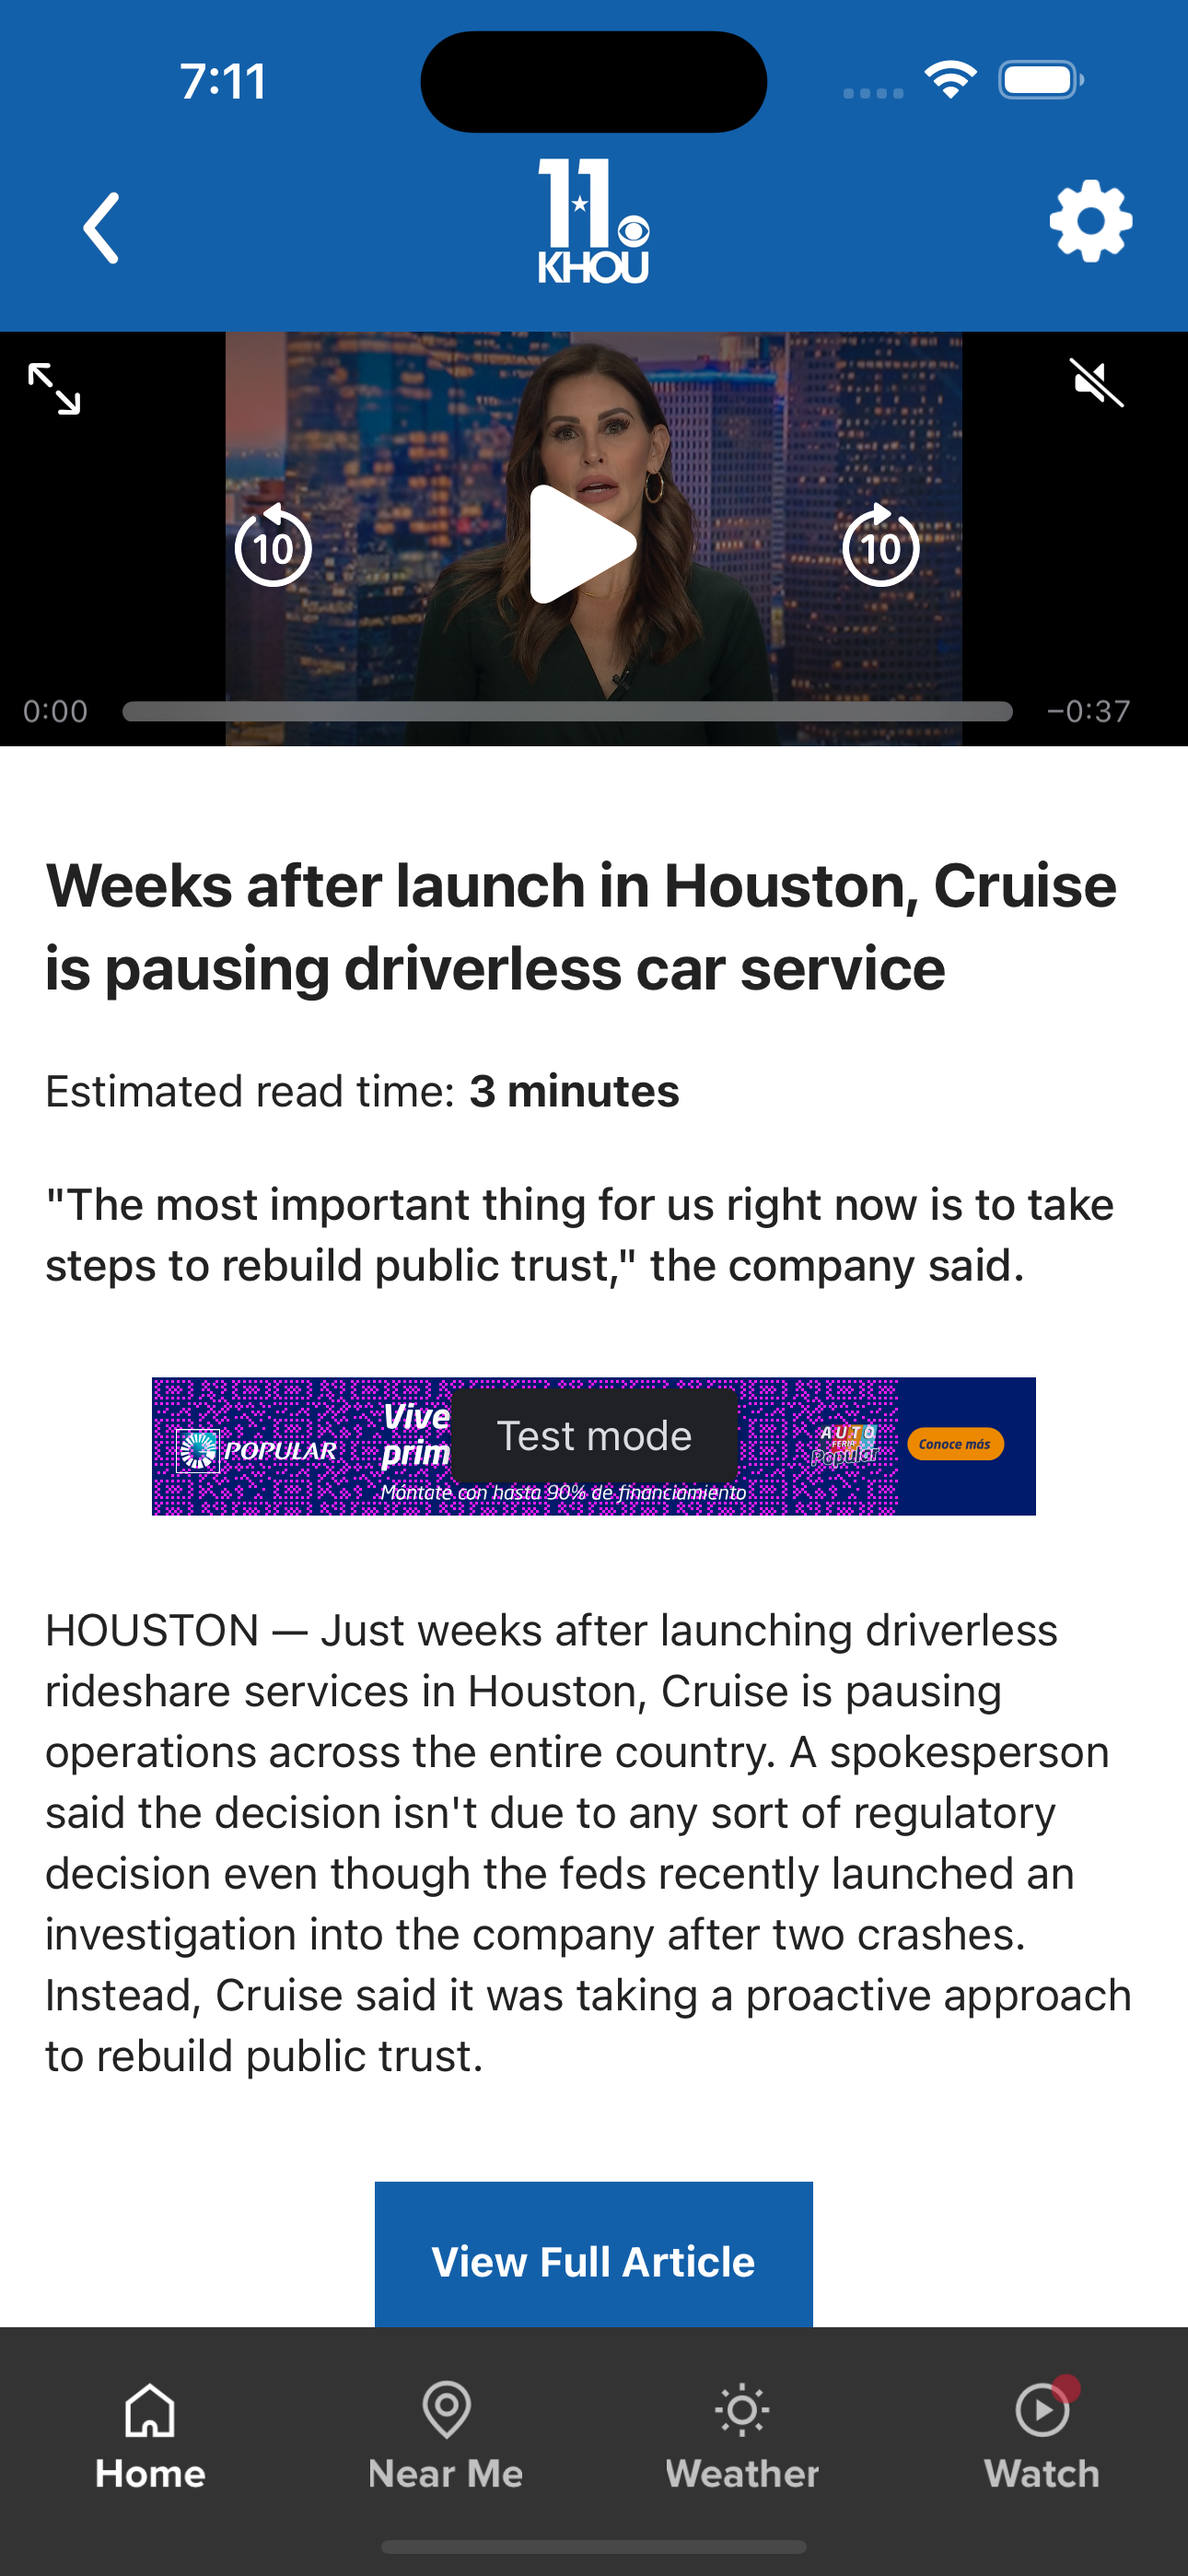
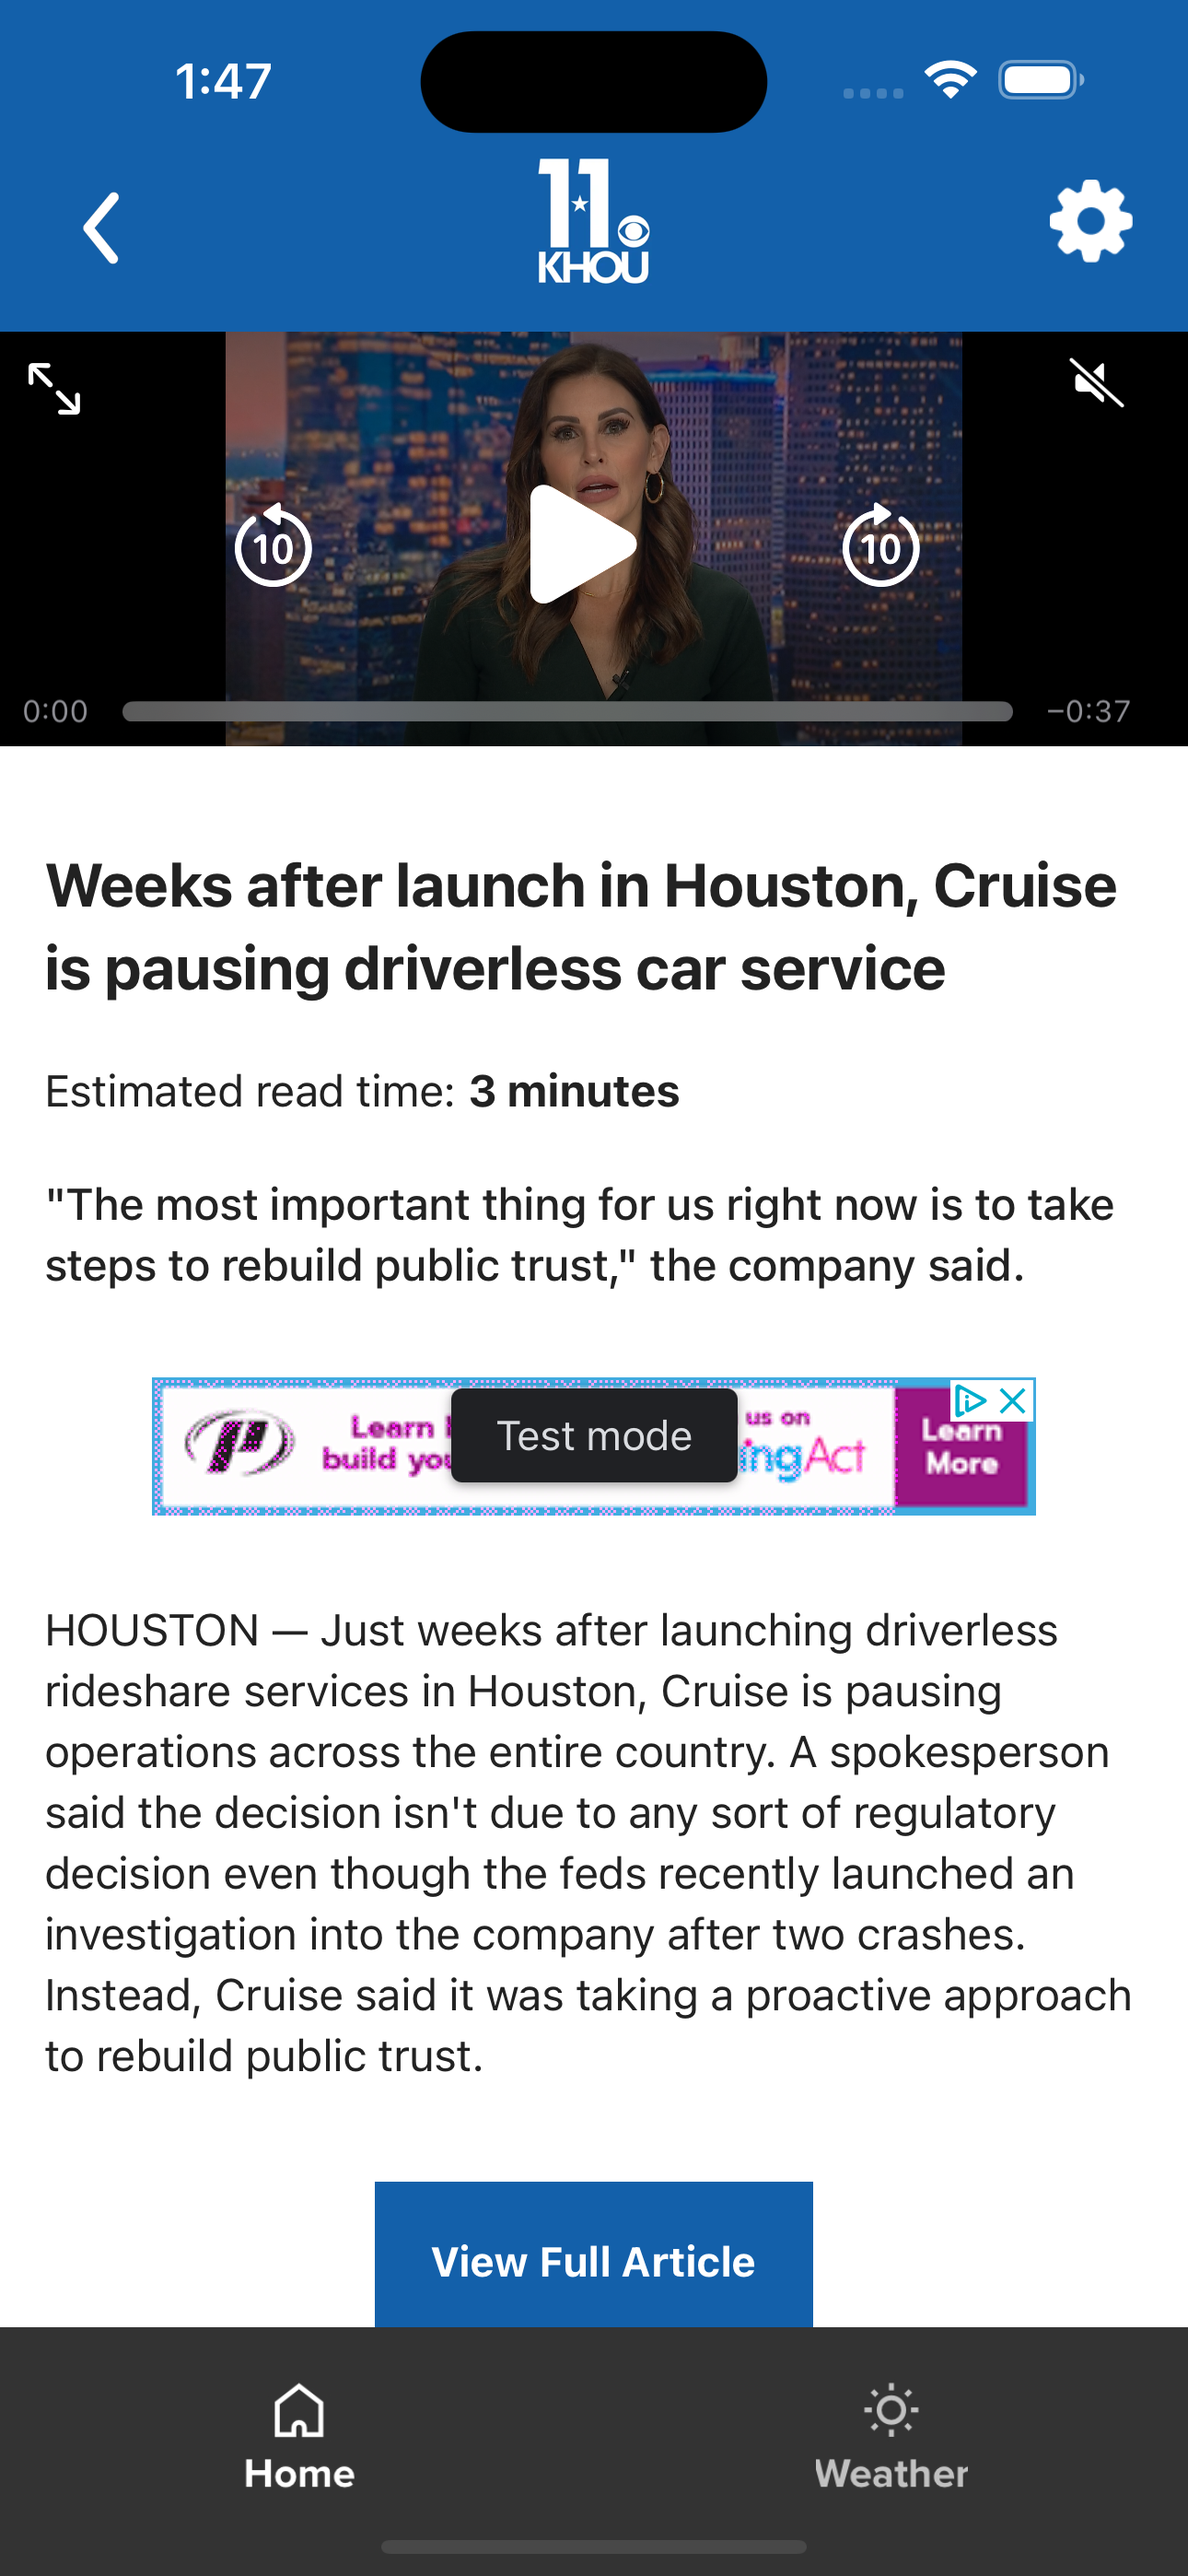
Weather updates

diff --git a/KHOU/components/WeatherItem.tsx b/KHOU/components/WeatherItem.tsx
@@ -1,0 +1,129 @@
+import React from 'react';
+import {View, Text, StyleSheet} from 'react-native';
+import CacheImage from './CacheImage';
+import {useSelector} from 'react-redux';
+// import {HOME_FEED_SCREEN} from './analytics/eventsConstants';
+// import {trackEvent} from './analytics/utils';
+
+function WeatherItem({weatherItem, storyIndex}: any) {
+  const theme = useSelector((state: RootStateOrAny) => state.prefs.theme);
+
+  console.log('weatherItem', weatherItem);
+
+  return (
+    <View key={weatherItem.id} style={styles.container}>
+      {
+        <View
+          style={[
+            styles.content,
+            {
+              backgroundColor: theme == 'light' ? 'white' : '#222',
+            },
+          ]}>
+          <View
+            style={{
+              display: 'flex',
+              marginRight: 15,
+              backgroundColor: 'orange',
+              padding: 10,
+              paddingLeft: 8,
+              width: 70,
+            }}>
+            <Text style={{fontSize: 18, fontWeight: 'bold', color: 'white'}}>
+              {weatherItem.day}
+            </Text>
+            <Text style={{fontSize: 18, fontWeight: 500, color: 'white'}}>
+              {weatherItem.date}
+            </Text>
+          </View>
+
+          <CacheImage
+            uri={weatherItem.condition}
+            style={styles.feedImg}
+            width={30}
+            height={30}
+          />
+          <Text
+            style={{
+              marginLeft: 10,
+              marginRight: 20,
+              fontSize: 22,
+              fontWeight: 'bold',
+              color: theme == 'dark' ? 'white' : '#222',
+            }}>
+            {weatherItem.high}/{weatherItem.low}
+          </Text>
+
+          <CacheImage
+            uri={weatherItem.condition}
+            style={styles.feedImg}
+            width={30}
+            height={30}
+          />
+          <Text
+            style={{
+              marginLeft: 5,
+              marginRight: 20,
+              fontSize: 16,
+              fontWeight: 'bold',
+              color: theme == 'dark' ? 'white' : '#222',
+            }}>
+            {weatherItem.precipitations}
+          </Text>
+          <CacheImage
+            uri={weatherItem.condition}
+            style={styles.feedImg}
+            width={30}
+            height={30}
+          />
+          <Text
+            style={{
+              marginLeft: 5,
+              fontSize: 16,
+              fontWeight: 'bold',
+              color: theme == 'dark' ? 'white' : '#222',
+            }}>
+            {weatherItem.windNumber}
+          </Text>
+          <Text
+            style={{
+              marginLeft: 5,
+              fontSize: 16,
+              fontWeight: 'bold',
+              color: theme == 'dark' ? 'white' : '#222',
+            }}>
+            {weatherItem.windDirection}
+          </Text>
+        </View>
+      }
+    </View>
+  );
+}
+
+const styles = StyleSheet.create({
+  container: {
+    width: '100%',
+    paddingLeft: 15,
+    paddingRight: 15,
+  },
+  content: {
+    display: 'flex',
+    alignItems: 'center',
+    flexDirection: 'row',
+  },
+  feedImg: {
+    width: 30,
+    height: 30,
+    aspectRatio: 'fit',
+    marginRight: 10,
+  },
+
+  title: {
+    fontSize: 22,
+    fontWeight: 'bold',
+    marginBottom: 30,
+    lineHeight: 30,
+  },
+});
+
+export default WeatherItem;

diff --git a/KHOU/components/Weather.tsx b/KHOU/components/Weather.tsx
@@ -1,0 +1,102 @@
+import React, {
+  View,
+  FlatList,
+  Dimensions,
+  StyleSheet,
+  ImageBackground,
+  Text,
+} from 'react-native';
+
+import bgImg from '../images/stripe-bg.png';
+import bgImgDark from '../images/stripe-bg-dark.png';
+import Header from './Header';
+import useFetch from './useFetch';
+import {useSelector} from 'react-redux';
+
+import WeatherItem from './WeatherItem';
+
+const {height} = Dimensions.get('window');
+
+const local = 'http://localhost:9999';
+
+function Weather() {
+  const {loading, error, value} = useFetch(local, {}, []);
+  const theme = useSelector((state: RootStateOrAny) => state.prefs.theme);
+
+  return (
+    <>
+      <ImageBackground
+        style={styles.patternBG}
+        source={theme === 'light' ? bgImg : bgImgDark}
+        resizeMode="cover">
+        <Header />
+
+        {loading ? (
+          <View style={styles.loading}>
+            <Text style={styles.loadingTxt}>Loading...</Text>
+          </View>
+        ) : value ? (
+          <View>
+            <View
+              style={{
+                padding: 15,
+                backgroundColor: theme == 'dark' ? '#222' : 'white',
+                marginLeft: 15,
+                marginRight: 15,
+              }}>
+              <Text
+                style={{
+                  fontSize: 22,
+                  fontWeight: 'bold',
+                  color: theme == 'dark' ? 'white' : '#222',
+                }}>
+                10-Day Forecast
+              </Text>
+            </View>
+
+            <FlatList
+              style={styles.feed}
+              data={value}
+              renderItem={({item, index}) => (
+                <WeatherItem weatherItem={item} storyIndex={index} />
+              )}
+              keyExtractor={item => item.id}
+              snapToAlignment="start"
+              decelerationRate={'fast'}
+              onScrollToIndexFailed={() => {}}
+              ListFooterComponent={<View style={{height: 150}} />}
+              snapToInterval={height}
+            />
+          </View>
+        ) : error ? (
+          <View>
+            <View style={styles.loading}>
+              <Text style={styles.errorTxt}>error</Text>
+            </View>
+          </View>
+        ) : null}
+      </ImageBackground>
+    </>
+  );
+}
+
+const styles = StyleSheet.create({
+  patternBG: {height: '100%'},
+  feed: {
+    padding: 0,
+    margin: 0,
+  },
+  loading: {
+    position: 'absolute',
+    top: 0,
+    left: 0,
+    right: 0,
+    bottom: 0,
+    justifyContent: 'center',
+    alignItems: 'center',
+  },
+  loadingTxt: {fontSize: 22, fontWeight: 'bold'},
+  errorTxt: {fontSize: 22},
+});
+
+export default Weather;

diff --git a/KHOU/components/Header.tsx b/KHOU/components/Header.tsx
@@ -12,7 +12,10 @@ function Header() {
 
   const goBack = () => {
     const routes = navigation.getState()?.routes;
+
     const prevRoute = routes[routes.length - 2];
+
+    console.log('this route: ', routes[routes.length - 2]);
 
     dispatch({type: 'SET_CURRENT_PAGE', payload: prevRoute.name});
     navigation.goBack();
@@ -26,13 +29,13 @@ function Header() {
   return (
     <View style={styles.container}>
       <Image source={khouLogo} style={styles.img} />
-      {currentPage !== 'HomeFeed' ? (
+      {currentPage !== 'HomeFeed' && currentPage !== 'WeatherScreen' ? (
         <TouchableOpacity style={styles.backBtn} onPress={() => goBack()}>
           <Image source={backIcon} style={styles.icon} />
         </TouchableOpacity>
       ) : null}
 
-      {currentPage !== 'Preferences' ? (
+      {currentPage !== 'Preferences' && currentPage !== 'WeatherScreen' ? (
         <TouchableOpacity style={styles.prefsBtn} onPress={() => goToPrefs()}>
           <Image source={prefsLight} style={styles.prefsIcon} />
         </TouchableOpacity>

diff --git a/KHOU/components/HomeFeed.tsx b/KHOU/components/HomeFeed.tsx
@@ -34,7 +34,13 @@ function HomeFeed() {
 
         {loading ? (
           <View style={styles.loading}>
-            <Text style={styles.loadingTxt}>Loading...</Text>
+            <Text
+              style={[
+                styles.loadingTxt,
+                {color: theme == 'dark' ? 'white' : '#222'},
+              ]}>
+              Loading...
+            </Text>
           </View>
         ) : value ? (
           <FlatList
@@ -53,7 +59,13 @@ function HomeFeed() {
         ) : error ? (
           <View>
             <View style={styles.loading}>
-              <Text style={styles.errorTxt}>error</Text>
+              <Text
+                style={[
+                  styles.errorTxt,
+                  {color: theme == 'dark' ? 'white' : '#222'},
+                ]}>
+                error
+              </Text>
             </View>
           </View>
         ) : null}

diff --git a/KHOU/navigation/TabBar.tsx b/KHOU/navigation/TabBar.tsx
@@ -31,21 +31,9 @@ function MyTabBar({navigation}) {
         </View>
       </TouchableWithoutFeedback>
 
-      <TouchableWithoutFeedback>
-        <View style={[styles.icon]}>
-          <FastImage source={nearMeIcon} style={styles.imgIcon} />
-        </View>
-      </TouchableWithoutFeedback>
-
-      <TouchableWithoutFeedback>
+      <TouchableWithoutFeedback onPress={() => setPage('WeatherScreen')}>
         <View style={[styles.icon]}>
           <FastImage source={weatherIcon} style={styles.imgIcon} />
-        </View>
-      </TouchableWithoutFeedback>
-
-      <TouchableWithoutFeedback>
-        <View style={[styles.icon]}>
-          <FastImage source={watchIcon} style={styles.imgIcon} />
         </View>
       </TouchableWithoutFeedback>
     </View>

diff --git a/KHOU/navigation/Navigation.tsx b/KHOU/navigation/Navigation.tsx
@@ -6,6 +6,7 @@ import MyTabBar from './TabBar';
 import HomeFeed from '../components/HomeFeed';
 import StoryView from '../components/StoryView';
 import Preferences from '../components/Preferences';
+import Weather from '../components/Weather';
 
 const AppTab = createBottomTabNavigator();
 const AppTabScreen = () => {
@@ -14,6 +15,7 @@ const AppTabScreen = () => {
       initialRouteName="HomeFeed"
       tabBar={(props: any) => <MyTabBar {...props} />}>
       <AppTab.Screen name="RootStackScreen" component={RootStackScreen} />
+      <AppTab.Screen name="WeatherScreen" component={Weather} />
     </AppTab.Navigator>
   );
 };

diff --git a/KHOU/components/FeedItem.tsx b/KHOU/components/FeedItem.tsx
@@ -32,7 +32,12 @@ function FeedItem({story, storyIndex}: any) {
                 styles.content,
                 {backgroundColor: theme == 'light' ? 'white' : '#222'},
               ]}>
-              <CacheImage uri={story.image} style={styles.feedImg} />
+              <CacheImage
+                uri={story.image}
+                style={styles.feedImg}
+                width={'100%'}
+                height={150}
+              />
               <View style={styles.padding}>
                 <Text
                   style={[

diff --git a/KHOU/components/CacheImage.tsx b/KHOU/components/CacheImage.tsx
@@ -44,12 +44,12 @@ export default CacheImage = props => {
       });
   };
 
+  const styles = StyleSheet.create({
+    feedImg: {
+      width: props.width,
+      height: props.height,
+    },
+  });
+
   return <Image style={styles.feedImg} source={source} resizeMode="cover" />;
 };
-
-const styles = StyleSheet.create({
-  feedImg: {
-    width: '100%',
-    height: 150,
-  },
-});

diff --git a/khou-weather/weather10day.py b/khou-weather/weather10day.py
@@ -1,7 +1,7 @@
 import requests
 from bs4 import BeautifulSoup
 import json
-
+import uuid
 
 def getWeather():
 
@@ -72,13 +72,15 @@ def getWeather():
     counter = 0
 
     for day in days:
-        ob = {"day": day, "date": dates[counter],
-              "condition": conditionIcons[counter],
-              "high": highs[counter],
-              "low": lows[counter],
-              "precipitations": precipitations[counter],
-              "windNumber": windNumbers[counter],
-              "windDirection": windDirections[counter]}
+        ob = {
+            "id":str(uuid.uuid4()),
+            "day": day, "date": dates[counter],
+            "condition": "https://www.khou.com/" + conditionIcons[counter],
+            "high": highs[counter],
+            "low": lows[counter],
+            "precipitations": precipitations[counter],
+            "windNumber": windNumbers[counter],
+            "windDirection": windDirections[counter]}
 
         weatherObs.append(ob)
         counter += 1

diff --git a/README.md b/README.md
@@ -21,3 +21,4 @@ Features:
 <img src="KHOU/images/4-story.png" width="300"/>
 <img src="KHOU/images/5-prefs.png" width="300"/>
 <img src="KHOU/images/6-feed-dark.png" width="300"/>
+<img src="KHOU/images/7-weather-dark.png" width="300"/>
